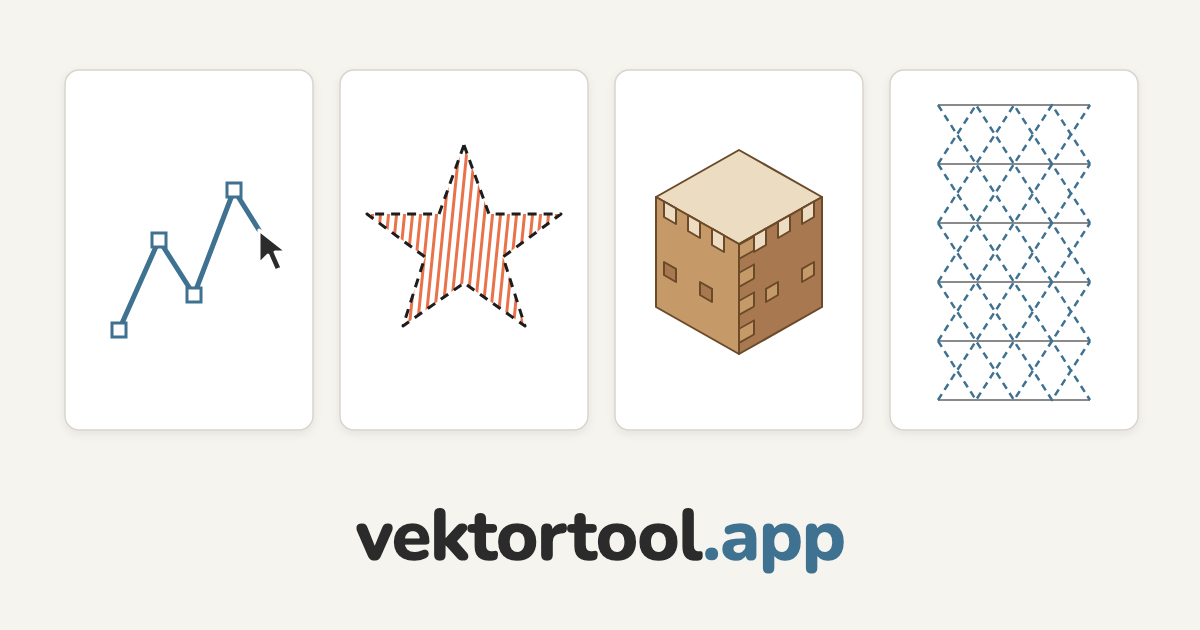
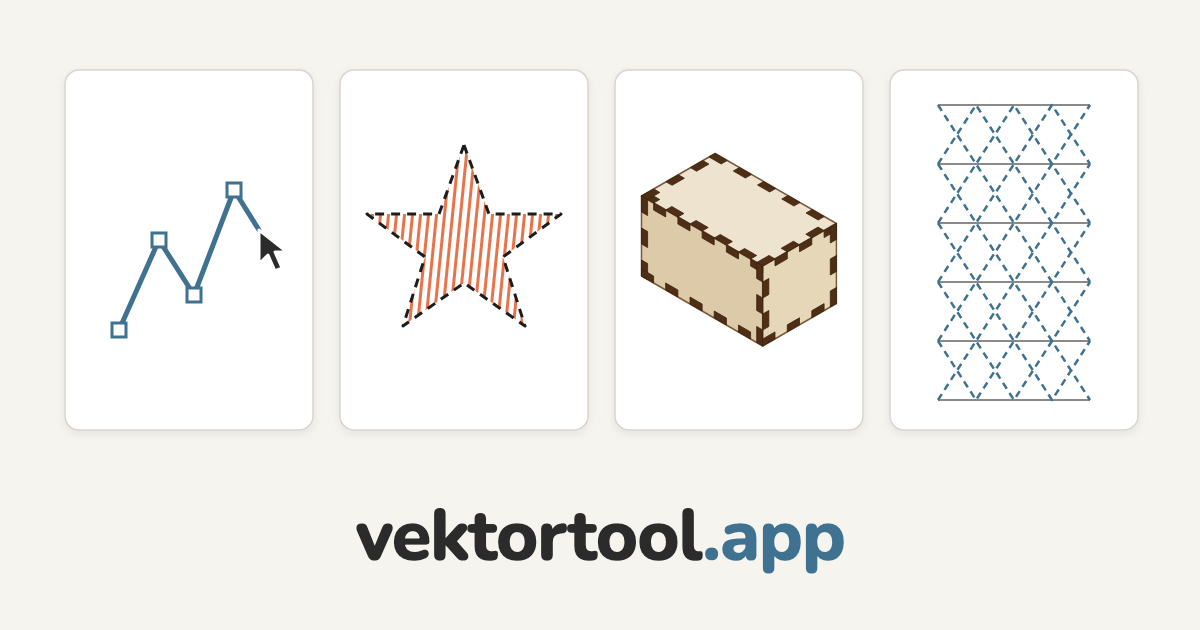
Vorschaubild: Box-Karte als echte Fingerbox
Die bisherige Box-Illustration (Wuerfel mit verstreuten Rechtecken) las
sich nicht als Finger-Joint. Jetzt wird die Box in der Quelle geometrisch
erzeugt: Isometrie, und entlang aller neun sichtbaren Kanten wechseln die
dunklen Zinken-Stirnflaechen zwischen den angrenzenden Flaechen - wie am
real gelaserten Stueck (Foto-Vorlage von Lukas, gebranntes Pappelsperrholz).

Changed region(s): [[0.5242, 0.2413, 0.7092, 0.573]]

diff --git a/preview-source.html b/preview-source.html
@@ -78,29 +78,56 @@
     <polygon class="staroutline" points="464,145 489,214 561,214 503,257 525,326 464,283 403,326 425,257 367,214 439,214"/>
   </g>
 
-  <!-- 3 Lasern: Fingerbox isometrisch -->
-  <g class="wood">
-    <polygon points="739,150 822,197 739,244 656,197" fill="#ecdcc2"/>
-    <polygon points="656,197 739,244 739,354 656,307" fill="#c59a68"/>
-    <polygon points="739,244 822,197 822,307 739,354" fill="#a87850"/>
-    <!-- Zinken entlang der senkrechten Kante (linke Wand greift in rechte) -->
-    <rect x="739" y="244" width="15" height="14" fill="#c59a68" transform="skewY(-29.5) translate(0,419)"/>
-    <rect x="739" y="272" width="15" height="14" fill="#c59a68" transform="skewY(-29.5) translate(0,419)"/>
-    <rect x="739" y="300" width="15" height="14" fill="#c59a68" transform="skewY(-29.5) translate(0,419)"/>
-    <rect x="739" y="328" width="15" height="14" fill="#c59a68" transform="skewY(-29.5) translate(0,419)"/>
-    <!-- Zinken Deckel -> linke Wand -->
-    <polygon points="664,201.5 676,208.3 676,224 664,217" fill="#ecdcc2"/>
-    <polygon points="688,215.1 700,221.9 700,238 688,231" fill="#ecdcc2"/>
-    <polygon points="712,228.7 724,235.5 724,252 712,245" fill="#ecdcc2"/>
-    <!-- Zinken Deckel -> rechte Wand -->
-    <polygon points="814,201.5 802,208.3 802,224 814,217" fill="#ecdcc2"/>
-    <polygon points="790,215.1 778,221.9 778,238 790,231" fill="#ecdcc2"/>
-    <polygon points="766,228.7 754,235.5 754,252 766,245" fill="#ecdcc2"/>
-    <!-- Zinken an den Aussenkanten (Vorder- und Seitenwand unten) -->
-    <polygon points="664,262 676,268.8 676,282 664,275" fill="#a87850"/>
-    <polygon points="700,282 712,288.8 712,302 700,295" fill="#a87850"/>
-    <polygon points="814,262 802,268.8 802,282 814,275" fill="#c59a68"/>
-    <polygon points="778,282 766,288.8 766,302 778,295" fill="#c59a68"/>
+  <!-- 3 Lasern: Fingerbox isometrisch, Zinken an allen sichtbaren Kanten (generiert, siehe Kopf) -->
+  <g stroke="#7a5a3a" stroke-width="1.5" stroke-linejoin="round">
+    <polygon points="641.5,196.0 762.7,266.0 836.4,223.5 715.1,153.5" fill="#eee3cf"/>
+    <polygon points="641.5,276.0 762.7,346.0 762.7,266.0 641.5,196.0" fill="#dccaa8"/>
+    <polygon points="762.7,346.0 836.4,303.5 836.4,223.5 762.7,266.0" fill="#e6d7b8"/>
+  </g>
+  <g fill="#4e2f16" stroke="#3a2210" stroke-width="0.8" stroke-linejoin="round">
+    <polygon points="641.5,196.0 653.6,203.0 659.7,199.5 647.6,192.5"/>
+    <polygon points="653.6,203.0 665.7,210.0 665.7,217.0 653.6,210.0"/>
+    <polygon points="665.7,210.0 677.9,217.0 683.9,213.5 671.8,206.5"/>
+    <polygon points="677.9,217.0 690.0,224.0 690.0,231.0 677.9,224.0"/>
+    <polygon points="690.0,224.0 702.1,231.0 708.2,227.5 696.1,220.5"/>
+    <polygon points="702.1,231.0 714.2,238.0 714.2,245.0 702.1,238.0"/>
+    <polygon points="714.2,238.0 726.4,245.0 732.4,241.5 720.3,234.5"/>
+    <polygon points="726.4,245.0 738.5,252.0 738.5,259.0 726.4,252.0"/>
+    <polygon points="738.5,252.0 750.6,259.0 756.7,255.5 744.6,248.5"/>
+    <polygon points="750.6,259.0 762.7,266.0 762.7,273.0 750.6,266.0"/>
+    <polygon points="762.7,266.0 775.0,258.9 769.0,255.4 756.7,262.5"/>
+    <polygon points="775.0,258.9 787.3,251.8 787.3,258.8 775.0,265.9"/>
+    <polygon points="787.3,251.8 799.5,244.8 793.5,241.2 781.2,248.3"/>
+    <polygon points="799.5,244.8 811.8,237.7 811.8,244.7 799.5,251.8"/>
+    <polygon points="811.8,237.7 824.1,230.6 818.0,227.1 805.8,234.2"/>
+    <polygon points="824.1,230.6 836.4,223.5 836.4,230.5 824.1,237.6"/>
+    <polygon points="762.7,266.0 762.7,282.0 756.7,278.5 756.7,262.5"/>
+    <polygon points="762.7,282.0 762.7,298.0 768.8,294.5 768.8,278.5"/>
+    <polygon points="762.7,298.0 762.7,314.0 756.7,310.5 756.7,294.5"/>
+    <polygon points="762.7,314.0 762.7,330.0 768.8,326.5 768.8,310.5"/>
+    <polygon points="762.7,330.0 762.7,346.0 756.7,342.5 756.7,326.5"/>
+    <polygon points="715.1,153.5 727.2,160.5 721.2,164.0 709.0,157.0"/>
+    <polygon points="739.4,167.5 751.5,174.5 745.4,178.0 733.3,171.0"/>
+    <polygon points="763.6,181.5 775.7,188.5 769.7,192.0 757.5,185.0"/>
+    <polygon points="787.9,195.5 800.0,202.5 793.9,206.0 781.8,199.0"/>
+    <polygon points="812.1,209.5 824.2,216.5 818.2,220.0 806.0,213.0"/>
+    <polygon points="641.5,196.0 653.8,188.9 659.8,192.4 647.6,199.5"/>
+    <polygon points="666.0,181.8 678.3,174.8 684.4,178.2 672.1,185.3"/>
+    <polygon points="690.6,167.7 702.8,160.6 708.9,164.1 696.6,171.2"/>
+    <polygon points="641.5,196.0 641.5,212.0 647.6,215.5 647.6,199.5"/>
+    <polygon points="641.5,228.0 641.5,244.0 647.6,247.5 647.6,231.5"/>
+    <polygon points="641.5,260.0 641.5,276.0 647.6,279.5 647.6,263.5"/>
+    <polygon points="641.5,276.0 653.6,283.0 653.6,276.0 641.5,269.0"/>
+    <polygon points="665.7,290.0 677.9,297.0 677.9,290.0 665.7,283.0"/>
+    <polygon points="690.0,304.0 702.1,311.0 702.1,304.0 690.0,297.0"/>
+    <polygon points="714.2,318.0 726.4,325.0 726.4,318.0 714.2,311.0"/>
+    <polygon points="738.5,332.0 750.6,339.0 750.6,332.0 738.5,325.0"/>
+    <polygon points="762.7,346.0 775.0,338.9 775.0,331.9 762.7,339.0"/>
+    <polygon points="787.3,331.8 799.5,324.8 799.5,317.8 787.3,324.8"/>
+    <polygon points="811.8,317.7 824.1,310.6 824.1,303.6 811.8,310.7"/>
+    <polygon points="836.4,223.5 836.4,239.5 830.3,243.0 830.3,227.0"/>
+    <polygon points="836.4,255.5 836.4,271.5 830.3,275.0 830.3,259.0"/>
+    <polygon points="836.4,287.5 836.4,303.5 830.3,307.0 830.3,291.0"/>
   </g>
 
   <!-- 4 3D-Druck: Faltmuster -->
